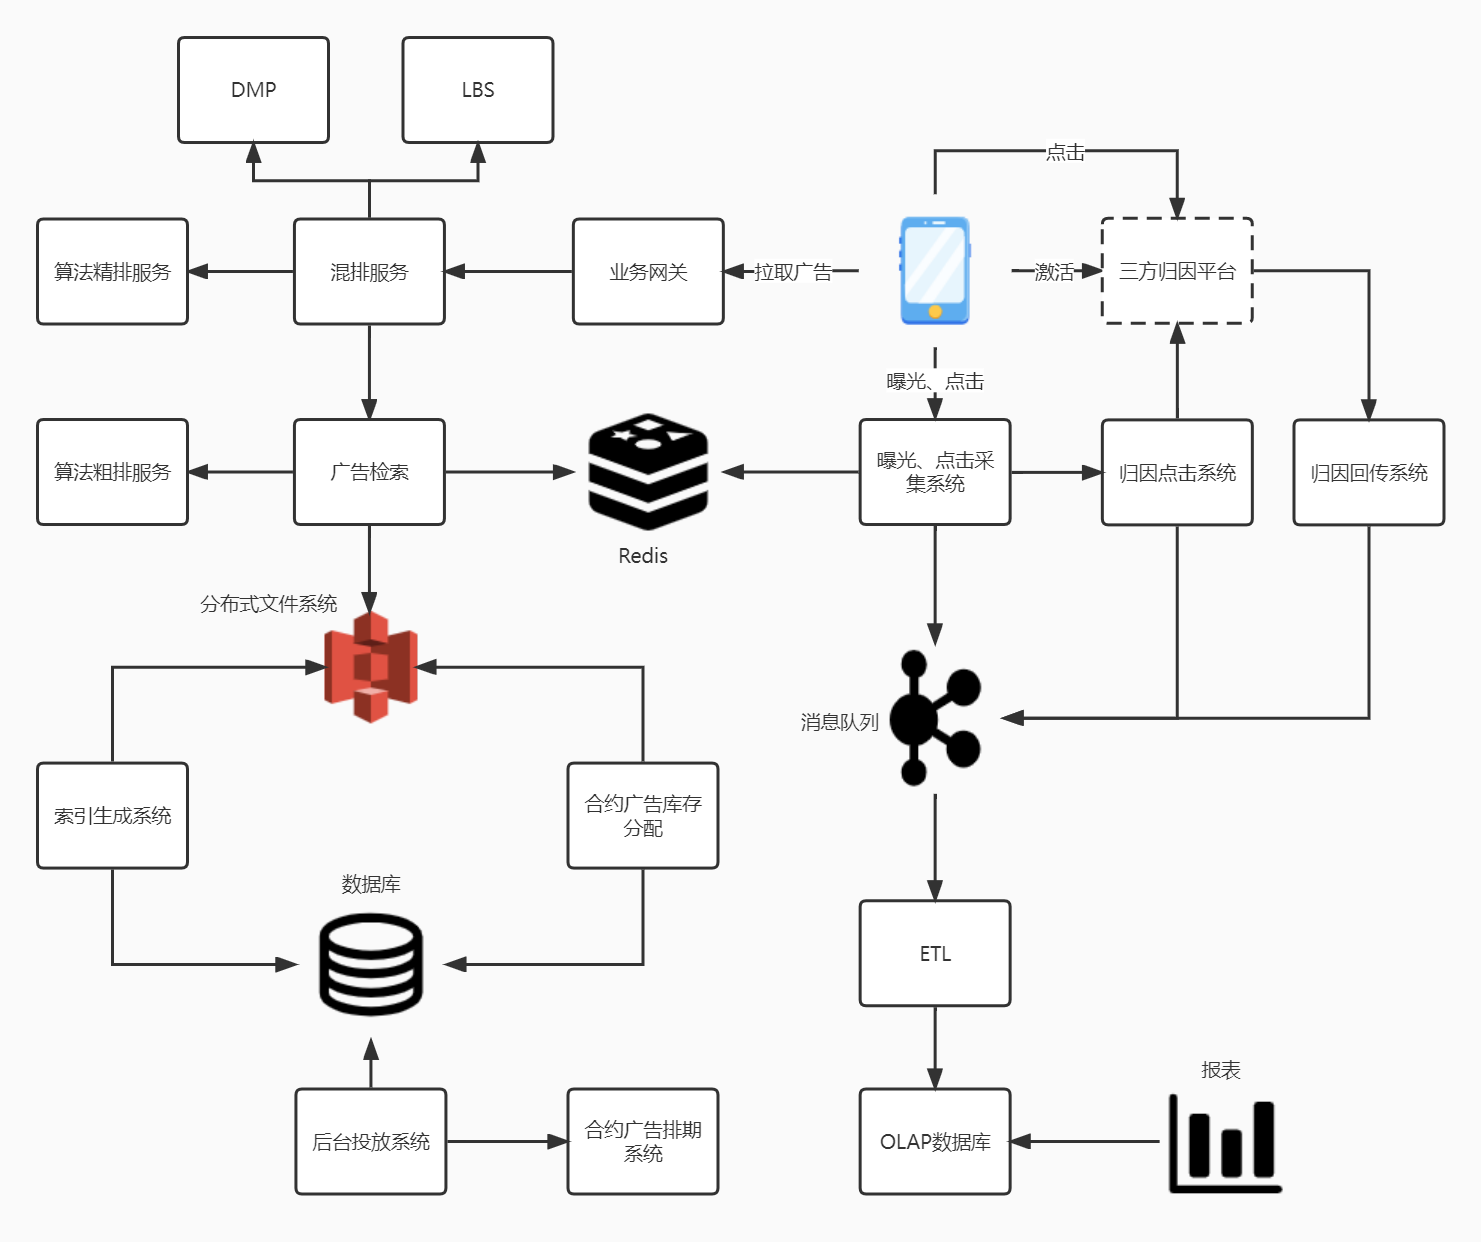
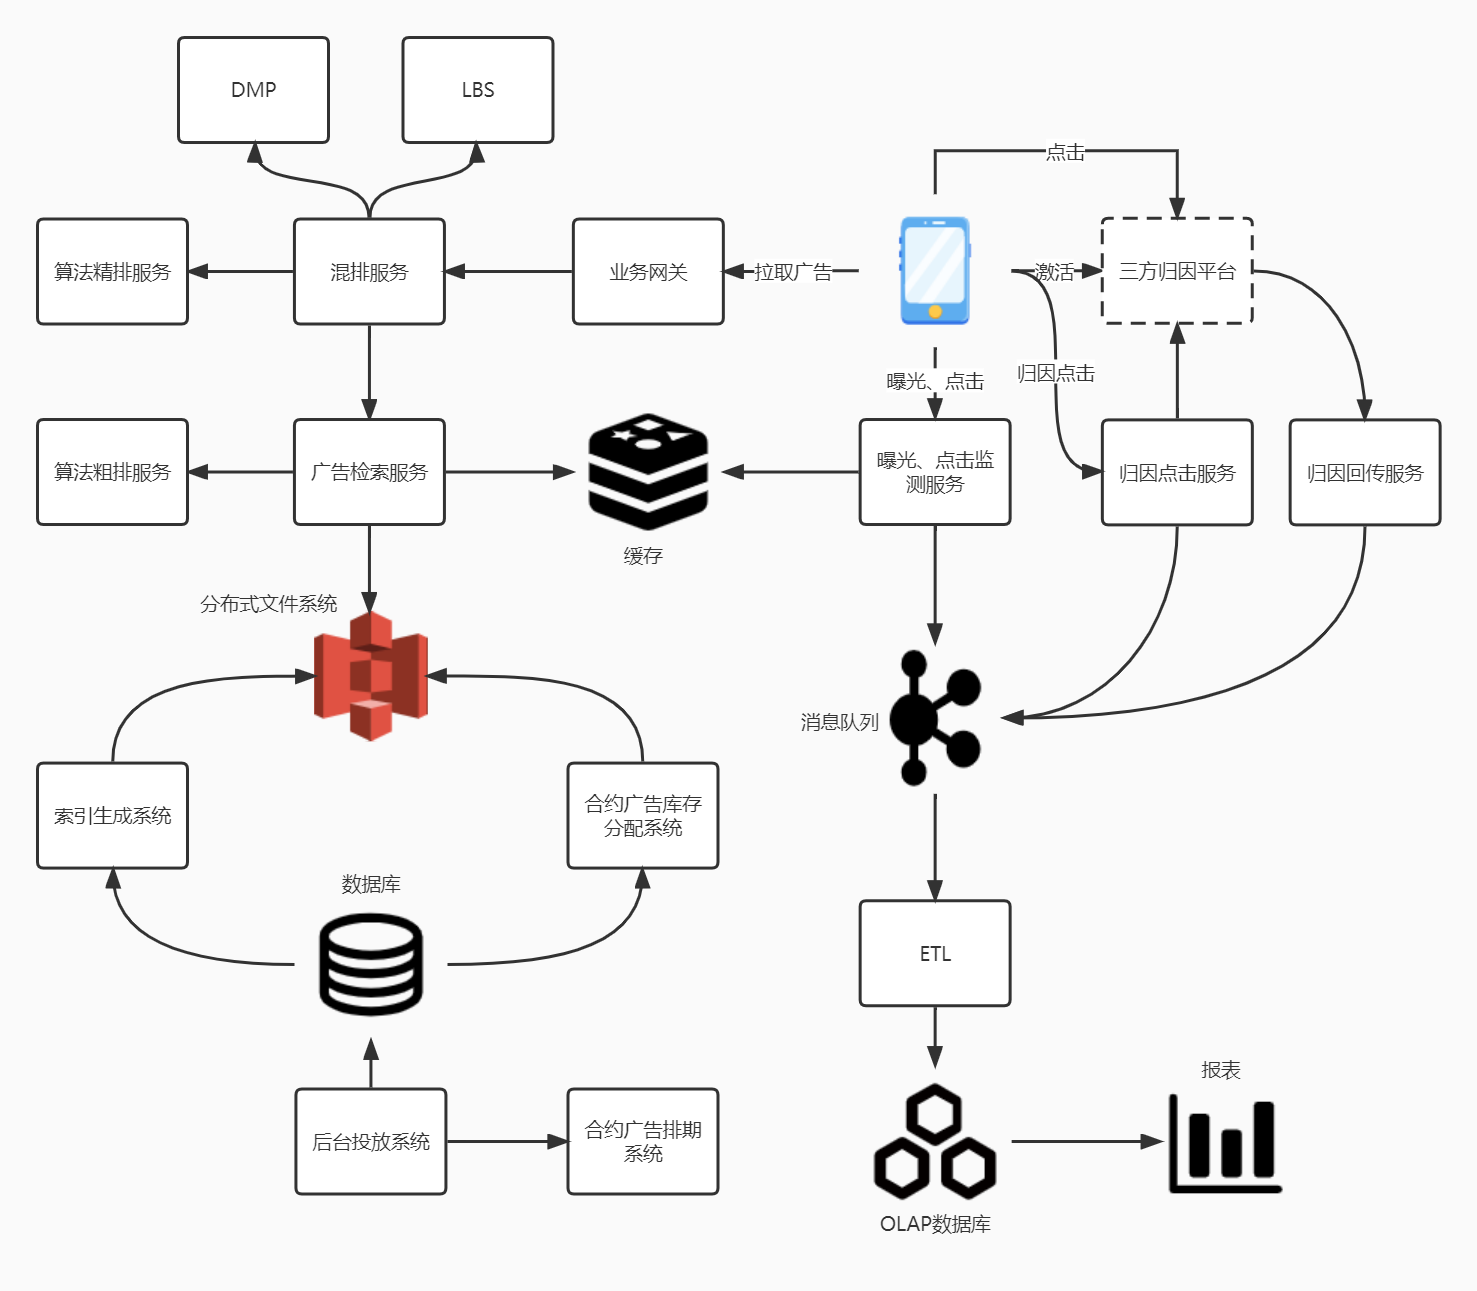
广告系统

diff --git a/_posts/2021-08-07-从宏观角度聊聊广告系统.md b/_posts/2021-08-07-从宏观角度聊聊广告系统.md
@@ -5,4 +5,113 @@ date:   2021-08-07 08:31:12 +0800
 categories: 广告杂谈
 ---
 
+本篇文章会从宏观角度上聊一聊，一个功能完备的广告系统，需要哪些模块。首先来解释下，对于一个广告系统来说，怎样才算是功能完备。
+我认为，最主要的一点是，要能够支持各种计费类型的广告投放。
+
+**常见的广告计费类型有：**
+1. CPD：合约广告，把广告位直接包下来，因此在广告召回过程中不存在与其他广告竞价的环节，在广告投放过程中，会涉及到排期问题。
+2. CPM：按曝光数计费，可以再分为：
+   1. 竞价CPM：竞价广告，广告召回过程中需要与其他竞价广告按照ECMP去竞价，价高者得。
+   2. 合约CPM：合约广告，媒体方需要保证给广告主跑满合约中约定好的曝光量，在广告召回过程不存在竞价，但需要进行库存分配。在广告投放过程中，涉及到流量预测问题。
+3. CPC：竞价广告，按点击数计费，因为要换算成ECPM竞价，所以会涉及到CTR预测问题。
+4. CPI：竞价广告，按安装数计费，为了换算ECPM，需要CTR、CVR预测。
+5. CPA：竞价广告，按安装后的事件计费，同CPI。
+
+### **广告系统架构图**
 ![](\data\img\广告系统架构图.jpg)
+
+上图是一个能够支持上面几种计费类型的广告系统架构图，可以划分为四大部分，下面依次介绍：
+#### **一、投放平台**
+**后台投放系统**
+
+这是整个投放平台的核心。所有跟广告相关的创建、管理均是在这个系统上完成的。创建好的数据一般存入数据库，如MySQL，供其他模块使用。
+
+**合约广告排期系统**
+
+对于合约广告来说，创建的时候，要进行排期，需要确认所需的流量资源是否充足。对于CPD广告，排期比较简单，因为不管未来的流量是多少，
+它都是全部占用的，换言之，一个广告位在某一时间段只能被一个广告所占用。但是对于合约CPM广告，排期就会变得很有挑战性，因为涉及到流量预测问题，
+需要我们根据历史的流量来预测未来的流量，以提供给广告主进行预定。
+
+**合约广告库存分配系统**
+
+因为合约CPM投放时，可以只预定广告位一部分的流量，所以会出现一个广告位在相同时段内，可以同时召回两个合约CPM广告，那么这两个广告具体选哪一个呢？
+这就涉及到库存分配问题了。库存分配问题其实就是：根据广告还需要的流量，以及当前库存还剩余的流量，来进行最优的流量分配，使得所有广告都能得到所需的流量总量。
+库存分配一般使用HWM算法来解，这个算法的原则就是，将流量优先提供给当前最难完成目标的广告。HWM算法的最终结果，是给每个广告输出一个播放概率，
+广告引擎进行合约CPM广告选择时，按照每个广告的概率大小来随机选择。
+
+_合约广告其实是一个很有意思的话题，今后有时间的话，我打算专门写一篇关于合约广告的文章。_
+
+**索引生成系统**
+
+广告系统的流量一般都特别大，因此，在投放平台创建完成的广告，一般需要会构建成索引，来供广告引擎使用，以提高广告召回的效率，缩短整条链路的耗时。
+生成的索引文件，可以放到分布式文件系统上，如HDFS、S3等。
+
+#### **二、广告引擎**
+
+**业务网关**
+
+一般广告系统对外会提供多种协议的接口，如公司内部的APP会使用内部协议，对外部流量一般使用openRTB协议，业务网关的作用就是进行协议转换，
+将对外提供的多种不同的协议，转换成广告引擎内部使用的相同的协议，然后再将广告请求发送给下游的混排服务。同样，收到混排服务的响应后，
+需要将响应体转换成对应的协议，返回给广告请求方。
+
+**混排服务**
+
+广告引擎的核心服务。当收到业务网关的广告请求后，需要向LBS服务拿到地理信息，向DMP服务拿到用户画像。然后再向广告检索服务拿到符合当前流量的广告，
+如果拿到的是合约广告，那么可以直接返回给业务网关。如果拿到的是竞价广告，那么还需要走一遍算法精排服务，拿到广告的ECPM，进行排序后，再返给业务网关。
+
+**DMP**
+
+用户画像服务，属于基础服务，这里不再展开。
+
+**LBS**
+
+地理位置服务，同样属于基础服务，这里不再展开。
+
+**广告检索服务**
+
+从广告索引文件中，检索出符合当前流量的所有广告。如果检索到CPD广告，那么直接返回即可。检索到合约CPM广告，那么需要根据库存分配系统计算出的播放概率，
+随机选择一个返回。除此之外，对于竞价广告，为了防止检索太多的广告到混排服务，所以一般还要再走一遍算法的粗排模型，按照算法返回的优先级，
+选择固定数量的广告返回给混排服务。另外，有的广告可能会设置播放频次等各种各样的限制，所以广告检索还需要从缓存中读取广告的播放信息，
+以便判断该广告是否可以被召回。
+
+_广告检索在广告系统的工程层面是一个核心的问题，后面有时间，我也会详细写一篇广告检索的文章。_
+
+**算法粗排服务**
+
+对检索到的广告进行一次粗排，得到广告的优先级。粗排一般来说不是精准的，所以这一步一般并不是进行CTR、CVR的预测，更多的是根据当前广告的表现，
+进行一个简单的预估。因为粗排的广告输入数量一般比较大，所以对粗排的要求是，可以不精准，但是速度必须快。
+
+**算法精排服务**
+
+混排服务进行竞价广告排序时，需要获知每个广告的ECPM，算法精排服务就是用来预测ECPM的。精排顾名思义，就是可以得到精准的排序。有人会问，
+既然我们有精排，那为啥还要在广告检索中，进行一次粗排呢，把所有广告都走一遍精排岂不是更完美？这种想法当然是很理想的，但现实就在于，
+精排服务一般都需要走模型，比较耗时。如果每个广告都走一遍精排，那么整个广告引擎的耗时就很变长很多。所以需要先走粗排，过滤掉一部分广告。
+
+**曝光、点击监测服务**
+
+广告到达客户端后，当用户有了曝光、点击行为，需要对该行为进行上报。曝光点击监测服务的作用就是对客户端发生的曝光点击进行监测，
+一般会写两份数据，给缓存写数据，用于检索服务进行频次判断。给消息队列写数据，用户后续的报表生成。
+
+#### **三、归因系统**
+
+关于广告归因，可以阅读下我之前写的文章：_聊聊广告归因。_
+
+**归因点击服务**
+
+对于CPI、CPA广告，当产生点击时，客户端除了向曝光点击监测服务上报外，还会向归因点击服务进行上报。归因点击服务会把归因链接中的宏参数替换成真实值，
+对于不同的流量场景和订单类型，可以选择将归因链接302给客户端，让客户端完成归因上报，也可以选择归因点击服务端自己直接上报给归因平台。
+关于归因业务，目前业界并没有一个统一的协议标准（比如广告请求就有openRTB协议），所以各家归因平台的归因参数都各不相同，归因点击服务需要分别对接、支持。
+
+**三方归因平台**
+
+这是这个架构图中，唯一一个不属于广告系统的模块，所以使用了虚线表示。客户端会把安装激活时间上报给三方归因平台，归因平台完成从安装到点击的归因后，
+再把归因信息通过媒体方提供的接口，回传给媒体方。
+
+**归因回传服务**
+
+用于接收三方归因平台回传的归因信息。同归因点击服务一样，各家归因平台回传的归因事件中，能够支持的参数也是不同的，所以归因回传服务同样需要
+与不同的归因平台进行对接。
+
+#### **四、大数据模块**
+
+从消息队列中消费数据后，经过ETL流程，将日志数据存入OLAP数据库（如clickhouse）中，供报表进行查询。我本身是服务端工程师，对大数据的了解有限，因此大数据这部分也就不再展开聊了。

diff --git a/_posts/2021-08-20-聊聊广告归因.md b/_posts/2021-08-20-聊聊广告归因.md
@@ -52,7 +52,7 @@ categories: 广告杂谈
 
 #### 为什么需要归因
 其实上面已经回答了这个问题了，没有归因的话，广告主就无法知道自己APP的安装数，分别是哪些渠道带来的，这样就无法和媒体方进行结算，
-也无法让广告主进行精细化投放。
+也无法让广告主进行精细化投放。并且，媒体方也无法知道，自己的流量到底给广告主带来了多少转化，无法进行CTR、CVR的预测。
 
 #### 归因是如何做的
 广告的点击都是在媒体方完成的，但是安装和激活却不是，安装一般是在应用商店，而激活是指第一次打开APP，那只有广告主才知道。
